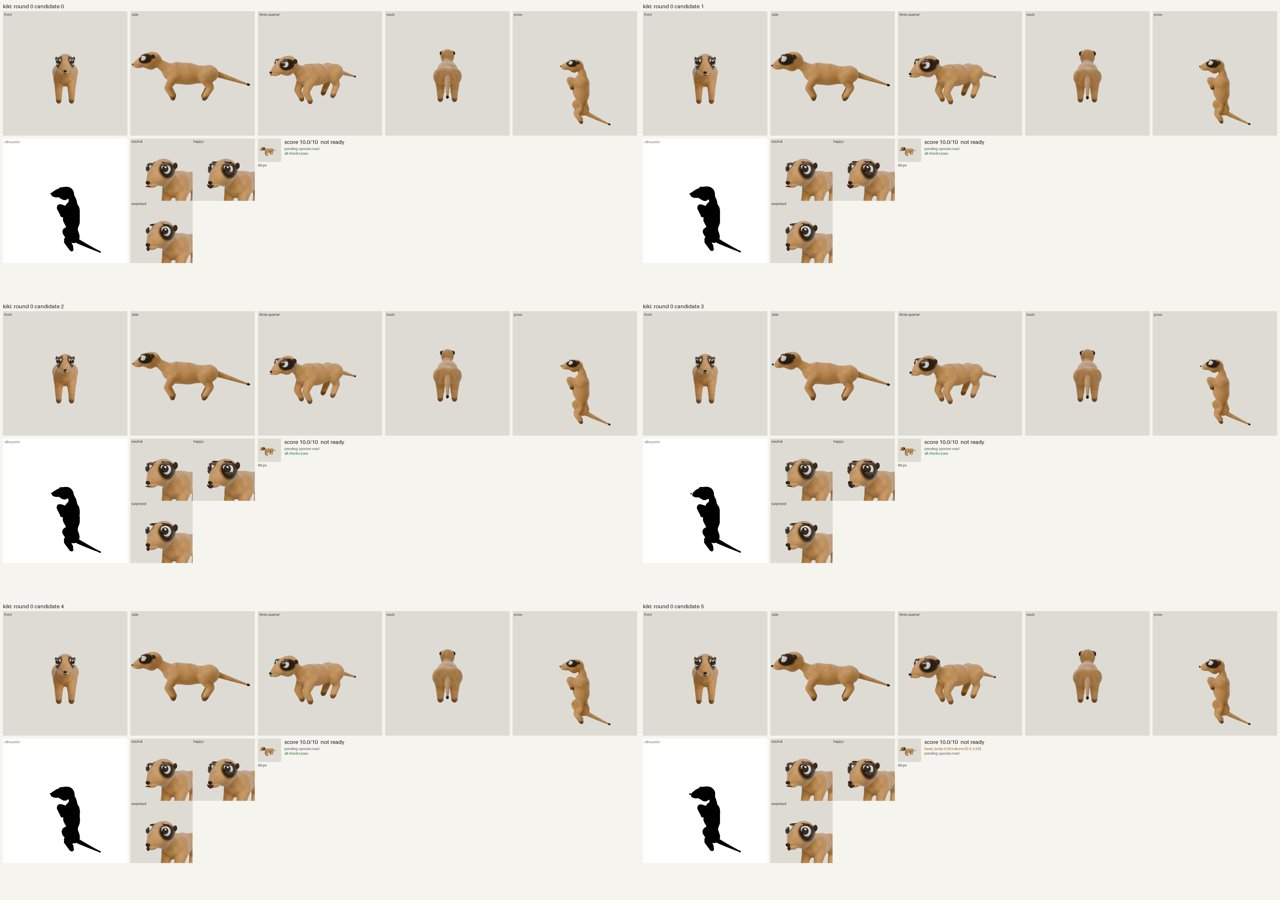
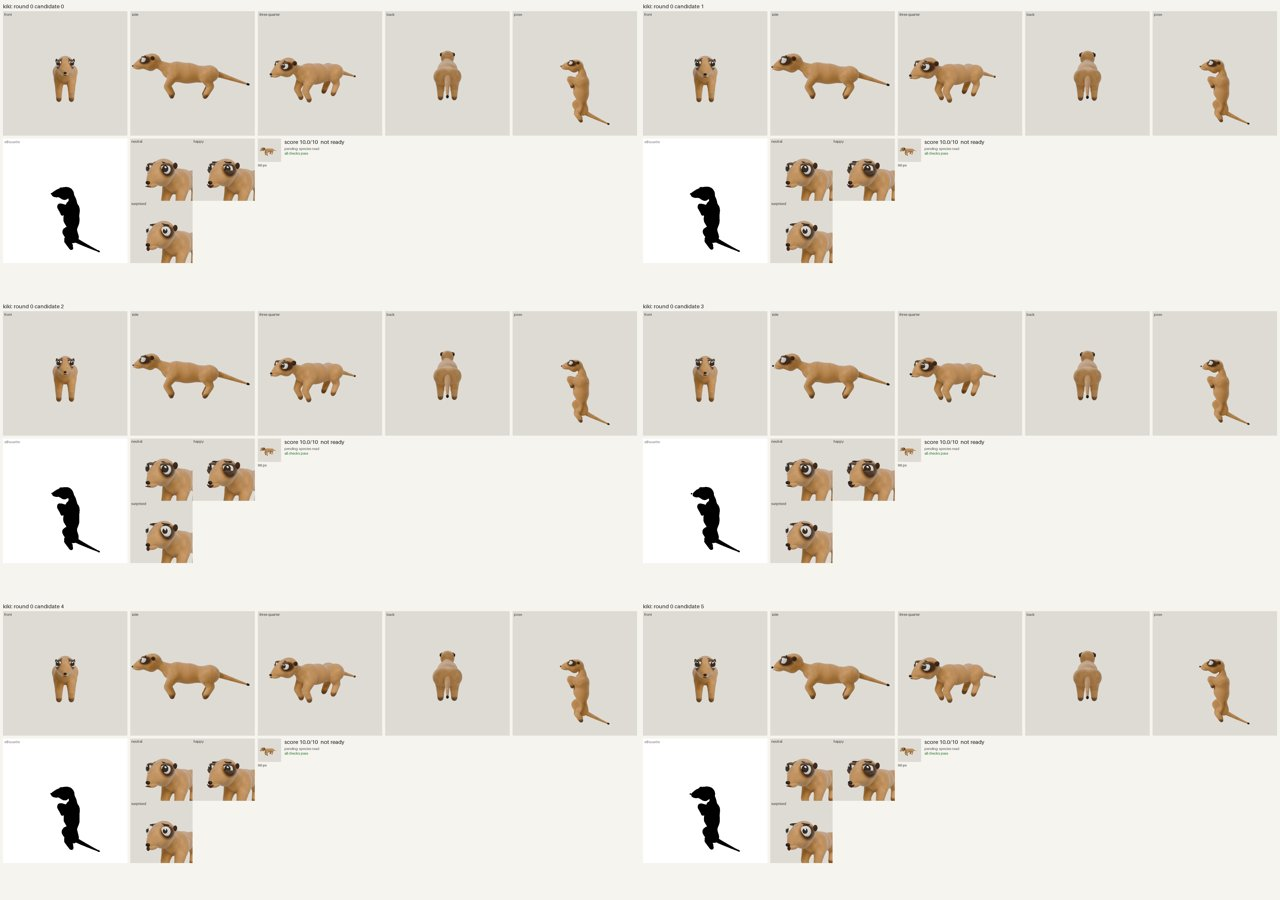
Design loop re-run for Kiki and Zuri; rig stress test for all five: raised brows slide back over the ridge (BROW_SINK 0.6)
The stress test caught Neema's brows floating 21 % of their size on 'scared' and Zuri's 13 % on 'surprised'
(thin brows, Zuri's bigger head). A raised brow now sinks back over the brow ridge 0.6 per unit of lift
(was 0.35), so it keeps the lift without leaving the skin. All five pass every check, soft ones included.
qa.rig_checks names the worst frame in a float message.

diff --git a/src/animatica/creatures/qa.py b/src/animatica/creatures/qa.py
@@ -82,13 +82,17 @@ def rig_checks(
     issues: list[Issue] = []
     embeds: dict[str, list[float]] = {}
     gaps: dict[str, list[float]] = {}
+    worst_at: dict[str, tuple[float, str]] = {}  # the frame of each part's biggest gap, for the message
     swim: dict[str, float] = {}
-    for fr in report.get("frames", {}).values():
+    for fkey, fr in report.get("frames", {}).items():
         for tid, v in (fr.get("seating") or {}).items():
             if "embed" in v:
                 embeds.setdefault(tid, []).append(v["embed"])
             elif "gap" in v:
-                gaps.setdefault(tid, []).append(v["gap"] / max(v["size"], 1e-6))
+                g = v["gap"] / max(v["size"], 1e-6)
+                gaps.setdefault(tid, []).append(g)
+                if g > worst_at.get(tid, (-1.0, ""))[0]:
+                    worst_at[tid] = (g, str(fkey))
         for mid, v in (fr.get("swim") or {}).items():
             swim[mid] = max(swim.get(mid, 0.0), v["p95"])
     for tid, es in embeds.items():
@@ -119,7 +123,12 @@ def rig_checks(
         if max(gs) > SKIN_GAP:
             kind = "brow_float" if "_brow_" in tid else "lid_float"
             issues.append(
-                Issue(shot, kind, "warning", f"{tid} floats {max(gs):.0%} of its size off the skin")
+                Issue(
+                    shot,
+                    kind,
+                    "warning",
+                    f"{tid} floats {max(gs):.0%} of its size off the skin (frame {worst_at[tid][1]})",
+                )
             )
     for mid, p95 in swim.items():
         if p95 > SWIM_P95:

diff --git a/src/animatica/creatures/face.py b/src/animatica/creatures/face.py
@@ -42,6 +42,9 @@ class Expression:
 
 
 PUPIL_SHRINK = 0.18  # the most an iris shrinks (share of its size) on a surprised face
+# a raised brow slides back over the ridge this much per unit of lift (0.35 left Neema's thin brows and Zuri's
+# floating 13-21 % of their size on scared / surprised in the rig stress test, DECISIONS #66)
+BROW_SINK = 0.6
 
 BROW_COLOR = {  # a shade darker than the coat around the eyes
     "elephant": "#5A5450",  # softer than v2's near-black (owner 11-17: less worried)  # dark enough to read on the grey skin (the brows carry his surprise)
@@ -294,7 +297,7 @@ def face_keys(
             # follow the brow ridge as it curves back: a raised brow also sinks a little, so it slides on
             # the skin (the shrinkwrap keeps it on the surface) instead of lifting off into the air
             sink = b.get("out", (0.0, 0.0, 0.0))
-            mv = [up[k] - sink[k] * 0.35 * abs(lift) for k in range(3)]
+            mv = [up[k] - sink[k] * BROW_SINK * abs(lift) for k in range(3)]
             loc_keys.append([frame0 + i, [round(rest[k] + mv[k], 5) for k in range(3)], "LINEAR"])
             # rotating about the head's forward axis: + lowers the +X (outer) end of the left brow, i.e. the
             # inner end goes up; mirrored on the right
